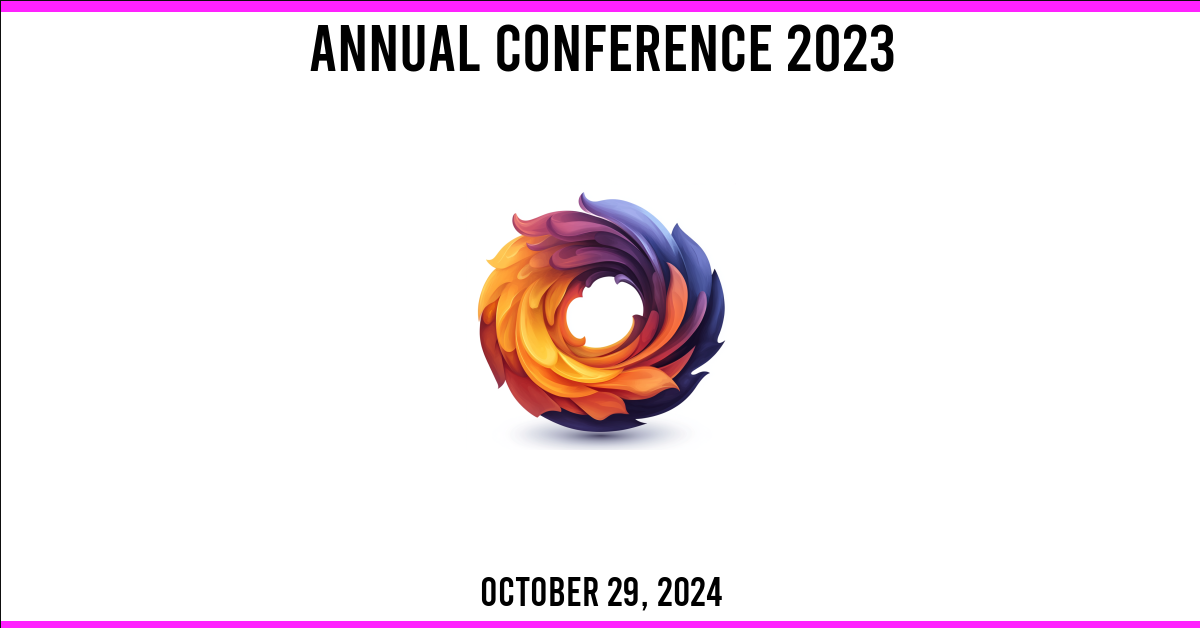
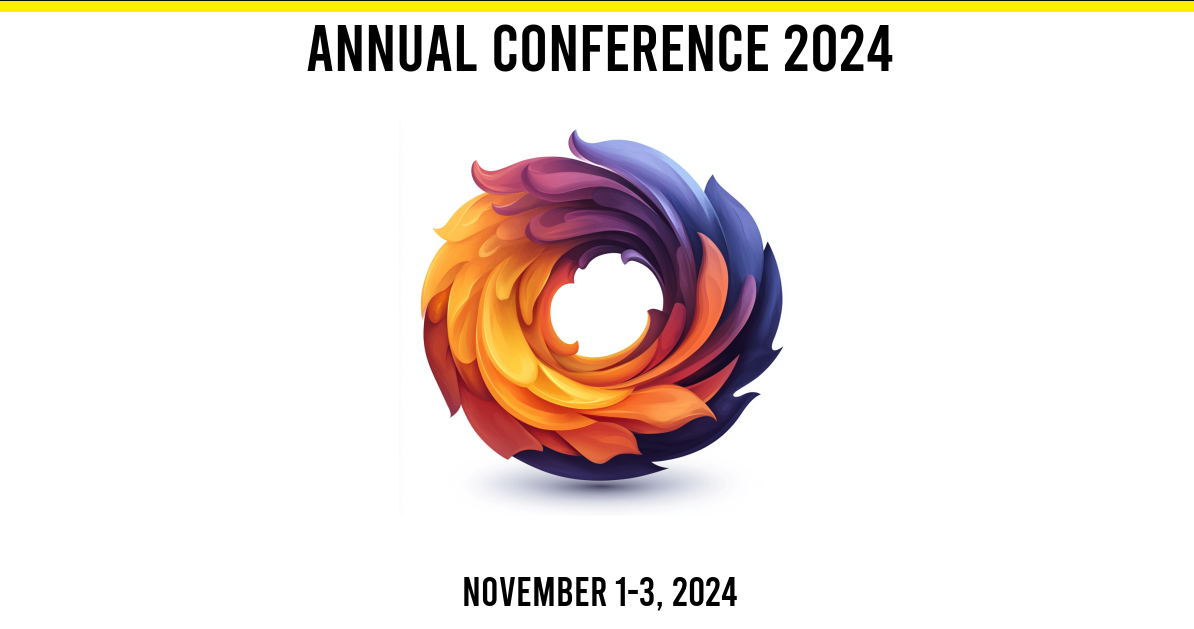
- changed the way custom templates are created; - update README.md - update version

Changed region(s): [[0.3409, 0.2118, 0.6817, 0.8169], [0.0, 0.9076, 1.0, 1.0], [0.0, 0.0, 1.0, 0.121]]

diff --git a/src/UserTemplates/EventTemplate.php b/src/UserTemplates/EventTemplate.php
@@ -4,50 +4,58 @@ namespace s3ny4\OgImage\UserTemplates;
 
 use s3ny4\OgImage\OgBackground;
 use s3ny4\OgImage\OgText;
+use s3ny4\OgImage\OgWatermark;
 use s3ny4\OgImage\Template\OgImageTemplateBase;
+
+
 
 class EventTemplate extends OgImageTemplateBase
 {
-    protected function initializeTemplate()
+
+    public function background($color): EventTemplate
     {
-        // Set a background image or color
-        $background = new OgBackground('#000000');
+        $background = new OgBackground($color);
+        $background->addBorder('top', 10, 'fff000');
         $this->ogImage->setBackground($background);
-
-        // Add event title
-        $titleText = new OgText();
-        $titleText->setPosition('center', 'top');
-        $titleText->setColor('ffffff');
-        $titleText->setSize(50);
-        $titleText->setPadding(20);
-        $this->elements['eventTitle'] = $titleText;
-
-        // Add event date
-        $dateText = new OgText();
-        $dateText->setPosition('center', 'bottom');
-        $dateText->setColor('ffffff');
-        $dateText->setSize(30);
-        $dateText->setPadding(20);
-        $this->elements['eventDate'] = $dateText;
-    }
-
-    public function title($text)
-    {
-        if (isset($this->elements['eventTitle'])) {
-            /** @var OgText $titleText */
-            $titleText = $this->elements['eventTitle'];
-            $titleText->setText($text);
-        }
         return $this;
     }
 
-    public function date($text)
+    public function title($text): EventTemplate
     {
-        if (isset($this->elements['eventDate'])) {
-            /** @var OgText $dateText */
-            $dateText = $this->elements['eventDate'];
-            $dateText->setText($text);
-        }
+        $titleText = new OgText();
+        $titleText->setPosition('center', 'top');
+        $titleText->setColor('000000');
+        $titleText->setSize(50);
+        $titleText->setPadding(20);
+        $titleText->setText($text);
+        $this->ogImage->addText($titleText);
+
+        return $this;
+    }
+
+    public function date($date): EventTemplate
+    {
+        $dateText = new OgText();
+        $dateText->setPosition('center', 'bottom');
+        $dateText->setColor('000000');
+        $dateText->setSize(30);
+        $dateText->setPadding(20);
+        $dateText->setText($date);
+        $this->ogImage->addText($dateText);
+
+        return $this;
+    }
+
+
+    public function logo($image,$size): EventTemplate
+    {
+        // watermark
+        $watermark = new OgWatermark();
+        $watermark->image($image);
+        $watermark->setPosition('center', 'center');
+        $watermark->setSize($size);
+        $this->ogImage->addWatermark($watermark);
+
         return $this;
     }
 }

diff --git a/src/Template/OgImageTemplateBase.php b/src/Template/OgImageTemplateBase.php
@@ -3,24 +3,17 @@
 namespace s3ny4\OgImage\Template;
 
 use s3ny4\OgImage\OgImage;
-use s3ny4\OgImage\OgText;
-use s3ny4\OgImage\OgWatermark;
 
 abstract class OgImageTemplateBase
 {
     protected $ogImage;
-    protected $elements = [];
+
 
     public function __construct()
     {
         $this->ogImage = new OgImage();
-        $this->initializeTemplate();
-    }
 
-    /**
-     * Users will implement this method to set up their template.
-     */
-    abstract protected function initializeTemplate();
+    }
 
     /**
      * Renders the image.
@@ -29,15 +22,6 @@ abstract class OgImageTemplateBase
      */
     public function render($outputPath = null)
     {
-        // Add elements to ogImage
-        foreach ($this->elements as $element) {
-            if ($element instanceof OgText) {
-                $this->ogImage->addText($element);
-            } elseif ($element instanceof OgWatermark) {
-                $this->ogImage->addWatermark($element);
-            }
-        }
-
         // Render the image
         $this->ogImage->render($outputPath);
     }

diff --git a/src/Template/TemplateManager.php b/src/Template/TemplateManager.php
@@ -9,24 +9,14 @@ class TemplateManager
     /**
      * Registers a template class with a key.
      *
-     * @param string $key       The key to identify the template.
+     * @param string $key The key to identify the template.
      * @param string $className The fully qualified class name.
+     * @throws \Exception
      */
-    public static function registerTemplate($key, $className)
+    public static function registerTemplate(string $key, string $className)
     {
 
         self::$templates[$key] = $className;
-    }
-
-    /**
-     * Creates an instance of the registered template.
-     *
-     * @param string $key The key of the template to instantiate.
-     * @return OgImageTemplateBase
-     * @throws \Exception
-     */
-    public static function createTemplate($key)
-    {
 
         if (isset(self::$templates[$key])) {
             $className = self::$templates[$key];
@@ -35,4 +25,5 @@ class TemplateManager
             throw new \Exception("Template '$key' not found.");
         }
     }
+
 }

diff --git a/README.md b/README.md
@@ -1,4 +1,4 @@
-# OG Image Generator in PHP 1.5 (GD Driver)
+# OG Image Generator in PHP 1.6 (GD Driver)
 
 ![Latest Version on Packagist](https://img.shields.io/packagist/v/53ny4/og-image.svg?style=flat-square)
 ![License](https://img.shields.io/packagist/l/53ny4/og-image.svg?style=flat-square)
@@ -119,7 +119,7 @@ at [ForeverAfter.Life](https://foreverafter.life/liam-payne) - [OG](https://fore
 - Wrap text automatically within a specified width.
 - Add background rectangles behind text with adjustable opacity and padding.
 - Include watermarks with adjustable size, position, and opacity.
-- Custom templates for reusable image designs.
+- Custom templates for easy image generation.
 
 ## Requirements
 
@@ -293,97 +293,78 @@ $ogImage->addWatermark($ogWatermark);
 
 ### Custom Templates (How to)
 
-Your custom templates should extend the `OgImageTemplateBase` class and implement the `initializeTemplate` method.
+Your custom templates should extend the `OgImageTemplateBase`.
 
 ```php
 class CustomTemplate extends OgImageTemplateBase
 ```
 
-The `initializeTemplate` method can set the background, text, and watermark elements for the image.
+Then you can add your custom methods to the template with specific properties that you want to set.
 
 ```php
 
-protected function initializeTemplate()
+public function background($color): EventTemplate
     {
-        // Set a background image or color
-        $background = new OgBackground('#ffffff');
-        $background->addBorder('bottom', 10, '#ff22ff');
-        $background->addBorder('top', 10, '#ff22ff');
+        $background = new OgBackground($color);
+        $background->addBorder('top', 10, 'fff000');
         $this->ogImage->setBackground($background);
+        return $this;
+    }
 
-        // Add event title
+    public function title($text): EventTemplate
+    {
         $titleText = new OgText();
         $titleText->setPosition('center', 'top');
         $titleText->setColor('000000');
         $titleText->setSize(50);
         $titleText->setPadding(20);
-        $this->elements['eventTitle'] = $titleText; // Assign the title to the template element
+        $titleText->setText($text);
+        $this->ogImage->addText($titleText);
 
-        // Add event date
+        return $this;
+    }
+
+    public function date($date): EventTemplate
+    {
         $dateText = new OgText();
         $dateText->setPosition('center', 'bottom');
         $dateText->setColor('000000');
         $dateText->setSize(30);
         $dateText->setPadding(20);
-        $this->elements['eventDate'] = $dateText; // Assign the date to the template element
+        $dateText->setText($date);
+        $this->ogImage->addText($dateText);
+
+        return $this;
+    }
 
 
-        // Add logo
-        $logo = new OgWatermark();
-        $logo->setPosition('center', 'center');
-        $logo->setOpacity(100); // 50% opacity
-        $this->elements['eventLogo'] = $logo; // Assign the logo to the template element
+    public function logo($image,$size): EventTemplate
+    {
+        // watermark
+        $watermark = new OgWatermark();
+        $watermark->image($image);
+        $watermark->setPosition('center', 'center');
+        $watermark->setSize($size);
+        $this->ogImage->addWatermark($watermark);
 
+        return $this;
     }
 
 ```
-
-You can add custom properties to have a more flexible template.
-
-```php
-public function title($text)
-    {
-        if (isset($this->elements['eventTitle'])) {
-            /** @var OgText $titleText */
-            $titleText = $this->elements['eventTitle'];
-            $titleText->setText($text); // Set the text
-        }
-        return $this;
-    }
-
-    public function date($text)
-    {
-        if (isset($this->elements['eventDate'])) {
-            /** @var OgText $dateText */
-            $dateText = $this->elements['eventDate'];
-            $dateText->setText($text); // Set the text
-        }
-        return $this;
-    }
-
-    // logo
-    public function logo($path)
-    {
-        if (isset($this->elements['eventLogo'])) {
-            /** @var OgWatermark $logo */
-            $logo = $this->elements['eventLogo'];
-            $logo->image($path); // Set the image
-        }
-        return $this;
-    }
-```
-And then in your code you can use it like this:
+And then in your code, instead of using a bunch of parameters, you can just use it like this:
 
 ```php
-require '../vendor/autoload.php';
+require_once __DIR__ . '/vendor/autoload.php';
 
-TemplateManager::registerTemplate('event', EventTemplate::class); // Register the custom template
-$ogImage = TemplateManager::createTemplate('event'); // Create a new instance of the custom template
-$ogImage->title('Annual Conference 2023') // Set the title
-    ->date('October 29, 2024') // Set the date
-    ->logo(__DIR__ . '/assets/images/logo.png') // Set the logo
-    ->render(); // Render the image
-    
+
+$ogImage = TemplateManager::registerTemplate('event', EventTemplate::class);
+
+$ogImage
+    ->background('#ffffff')
+    ->title('Annual Conference 2024')
+    ->date('November 1-3, 2024')
+    ->logo(__DIR__ . '/assets/images/conf_logo.png', 400)
+    ->render();
 ```
 Result:
 ![Example Image](docs/images/custom_template.png)
